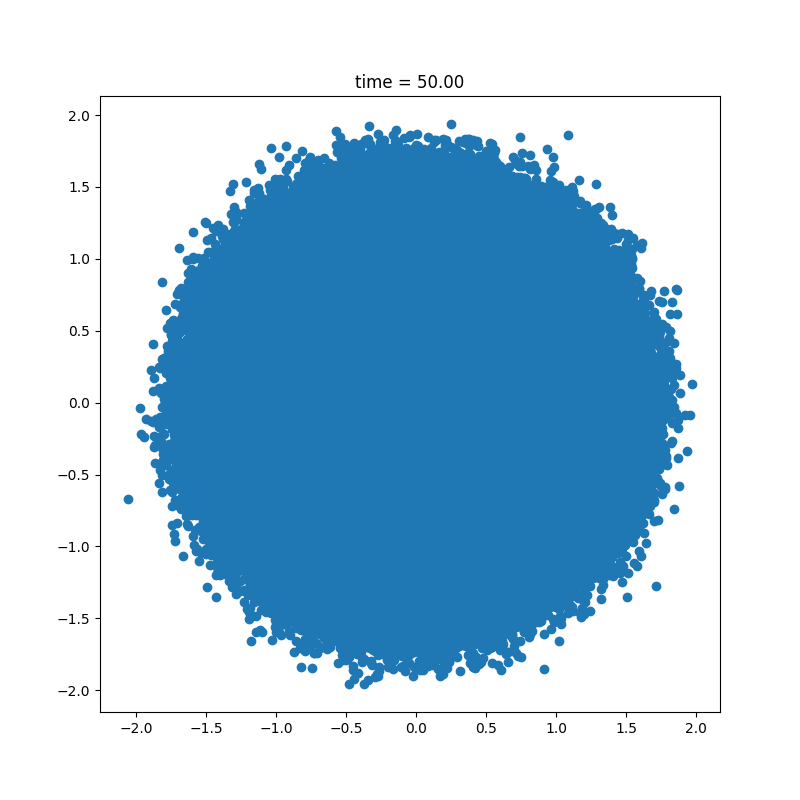
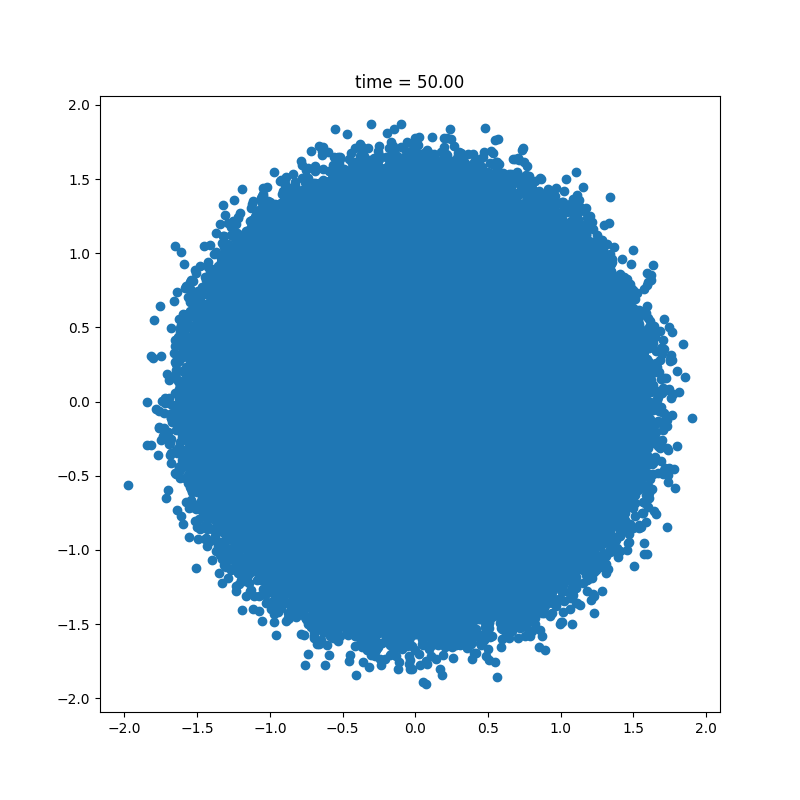
plot update

diff --git a/experiments/backward circle/gen_data.py b/experiments/backward circle/gen_data.py
@@ -25,7 +25,7 @@ high = 2. * np.ones(2)
 low = -high
 tag = '{:.2f}'.format(sigma**2).replace('.', '_')
 name = 'CircleBackward2D_sigma2_{}'.format(tag)
-eqn = CircleBackward2D(p0=p1, sigma=sigma, t1=.5, low=low, high=high, folder='.', name=name, dtype='float64')
-t = 0.2
-s, values = eqn.evol(X0='grid_30', n_repeats=1000, final_time=t, time_steps=100, prune=None, interpolate=True, invert_mu=False)
-eqn.plot_slice(t, steady=False)
+eqn = CircleBackward2D(p0=p0, sigma=sigma, t1=.5, low=low, high=high, folder='.', name=name, dtype='float64')
+t = 50.0
+s, values = eqn.evol(X0='grid_30', n_repeats=100, final_time=t, time_steps=10000, prune=None, interpolate=True, invert_mu=False)
+eqn.plot_slice(t, steady=True)

diff --git a/modules/pde.py b/modules/pde.py
@@ -137,7 +137,7 @@ class SemilinearPDE:
     def get_time_slice(self, t):
         if isinstance(t, int):
             spacetime, values = self.read_data()
-            a = self.n_particles * slice
+            a = self.n_particles * t
             b = a + self.n_particles
             return spacetime[a:b, :], values[a:b]
         else:
@@ -231,7 +231,7 @@ class SemilinearPDE:
 
     def time_tag(self, t):
         if isinstance(t, int):
-            return '_slice_' + str(slice)
+            return '_slice_' + str(t)
         else:
             return '_time_{:.6f}'.format(t).replace('.', '_')
 
